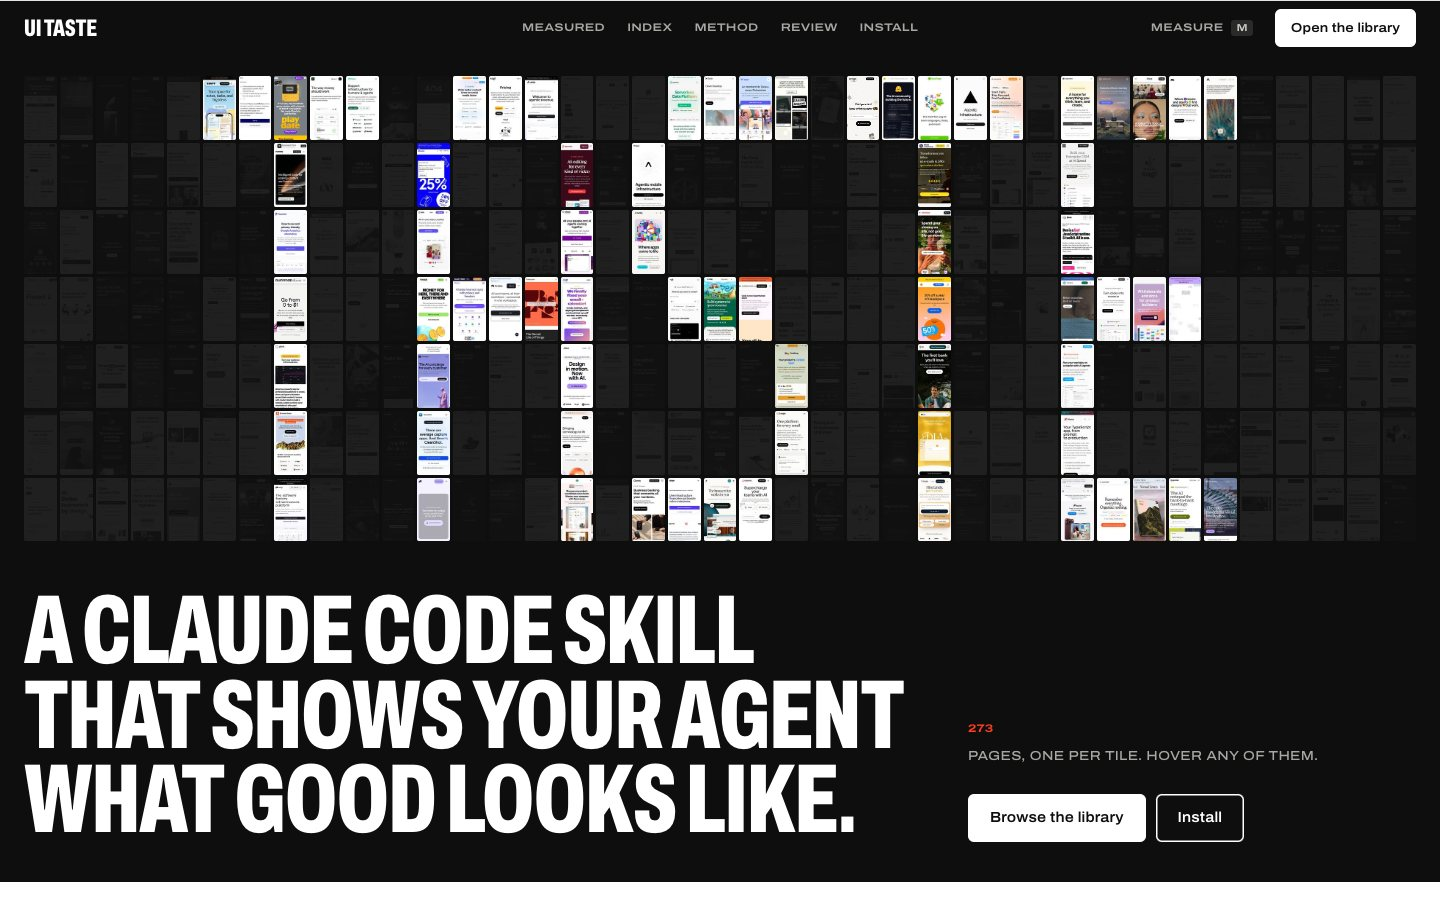
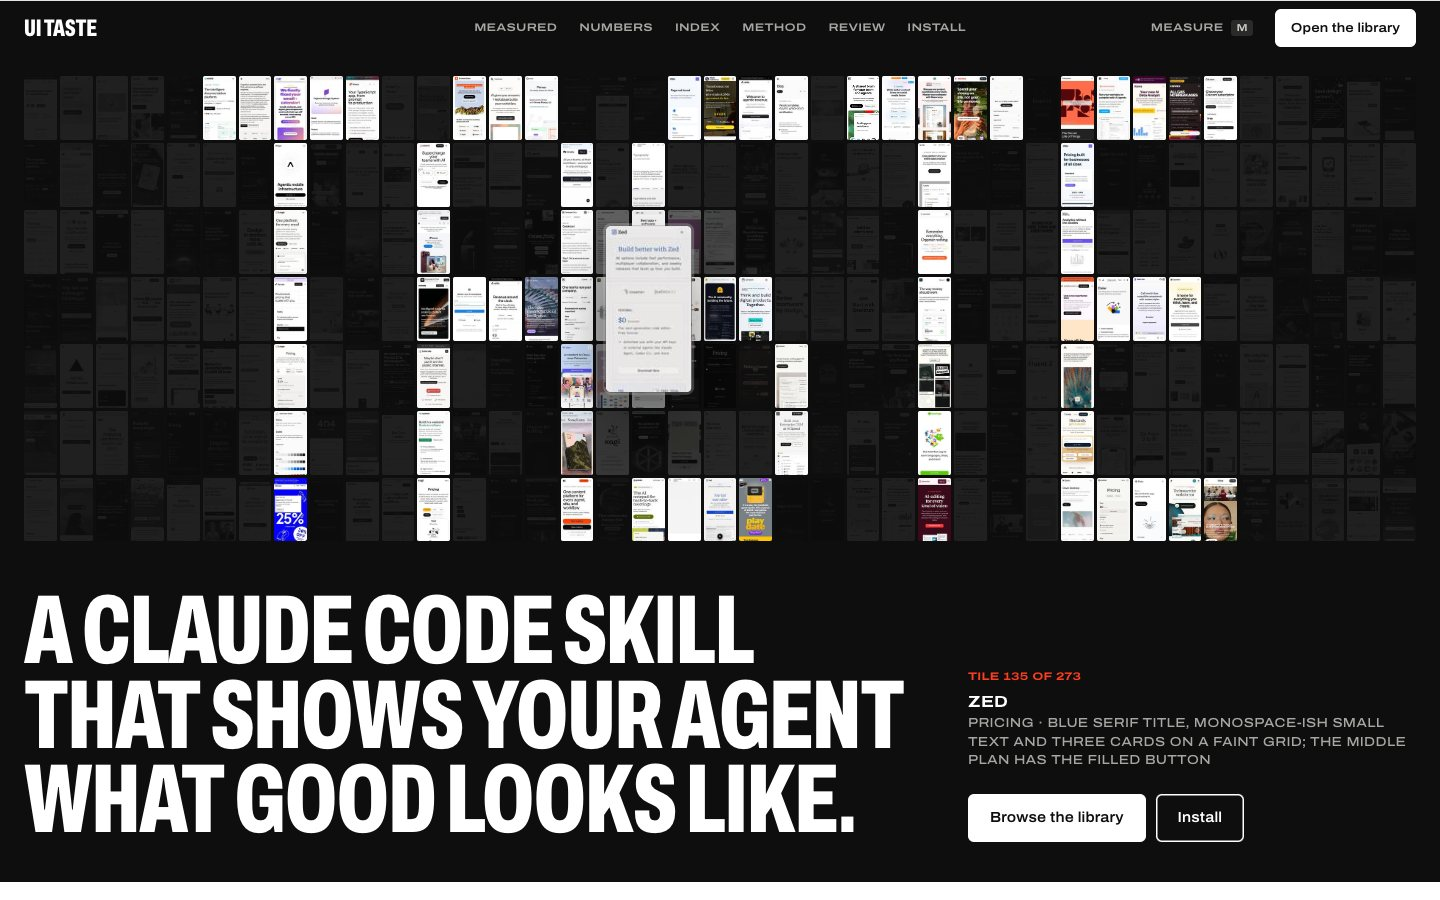
landing: torch that lights the dimmed pages around the pointer, the word shimmers as letter pages trade places with light pages outside it, mobile mosaic as TA/ST/E on 13×21 = 273, and a numbers section computed from the library (median h1 56px, most common h1 weight 400, 30% Inter, 26% one typeface

diff --git a/site/landing.js b/site/landing.js
@@ -19,45 +19,107 @@
   $("#c-shots").textContent = shots;
   $("#c-date").textContent = LIB.map((x) => x.captured).sort().pop() || "";
 
-  // ---- hero: the word TASTE spelled with every page of the library (39 × 7 = 273 cells) ----
+  // ---- hero: the word TASTE spelled with every page of the library ----
+  // desktop: 39 × 7 = 273, one line. mobile: 13 × 21 = 273, "TA / ST / E".
   const GLYPH = {
     T: ["11111", "00100", "00100", "00100", "00100", "00100", "00100"],
     A: ["01110", "10001", "10001", "11111", "10001", "10001", "10001"],
     S: ["01111", "10000", "10000", "01110", "00001", "00001", "11110"],
     E: ["11111", "10000", "10000", "11110", "10000", "10000", "11111"],
   };
-  const COLS = 39, ROWS = 7, START = 5;
-  const lit = new Set();
-  [..."TASTE"].forEach((ch, k) => GLYPH[ch].forEach((line, r) => [...line].forEach((v, c) => { if (v === "1") lit.add(r * COLS + START + k * 6 + c); })));
-  // deterministic shuffle so neighbours are varied
+  const LAYOUTS = {
+    wide: { cols: 39, rows: 7, letters: [["T", 0, 5], ["A", 0, 11], ["S", 0, 17], ["T", 0, 23], ["E", 0, 29]] },
+    tall: { cols: 13, rows: 21, letters: [["T", 0, 1], ["A", 0, 7], ["S", 7, 1], ["T", 7, 7], ["E", 14, 4]] },
+  };
   let seed = 7; const rnd = () => (seed = (seed * 16807) % 2147483647) / 2147483647;
   const shuffle = (arr) => { for (let i = arr.length - 1; i > 0; i--) { const j = Math.floor(rnd() * (i + 1)); [arr[i], arr[j]] = [arr[j], arr[i]]; } return arr; };
-  const STAR = ["stripe-press-landing", "playdate-landing", "linear-pricing", "teenage-engineering-landing", "kagi-pricing", "hey-landing", "cash-app-landing", "sentry-landing", "pika-landing", "obsidian-landing", "lindy-landing", "affinity-landing", "procreate-landing", "netlify-landing", "partiful-landing", "beehiiv-landing", "duolingo-landing", "spotify-landing", "oatly-landing", "glossier-landing", "panic-landing", "cosmos-landing", "anthropic-landing", "pentagram-landing"];
-  const starred = STAR.filter((id) => byId[id]).map((id) => byId[id]);
-  const others = shuffle(LIB.filter((x) => !STAR.includes(x.id)));
-  // letters use pages with a light background so the word reads against the dark band
   const lum = (h) => { const m = /^#([0-9a-f]{6})$/i.exec(h || ""); if (!m) return 1; const n = parseInt(m[1], 16); return ((n >> 16) * 0.299 + ((n >> 8) & 255) * 0.587 + (n & 255) * 0.114) / 255; };
   const light = (x) => lum(x.colors?.background) > 0.6 && !x.tags.includes("dark");
-  const litPool = shuffle([...starred.filter(light), ...others.filter((x) => x.type === "landing" && light(x)), ...others.filter((x) => x.type !== "landing" && light(x))].slice(0, lit.size));
-  const rest = shuffle(LIB.filter((x) => !litPool.includes(x)));
-  const cells = [];
-  for (let i = 0, a = 0, b = 0; i < COLS * ROWS; i++) cells.push(lit.has(i) ? litPool[a++] : rest[b++]);
+  const STAR = ["stripe-press-landing", "playdate-landing", "kagi-pricing", "hey-landing", "lindy-landing", "netlify-landing", "duolingo-landing", "oatly-landing", "glossier-landing", "panic-landing", "cosmos-landing", "anthropic-landing", "basecamp-landing", "tailscale-landing", "mailchimp-landing", "notion-landing"];
+  const starred = STAR.filter((id) => byId[id] && light(byId[id])).map((id) => byId[id]);
+  const lightPages = [...starred, ...shuffle(LIB.filter((x) => light(x) && !STAR.includes(x.id)))];
   const mosaic = $("#mosaic");
-  mosaic.innerHTML = cells.map((it, i) => {
-    if (!it) return `<span class="tile off"></span>`;
-    const col = i % COLS, on = lit.has(i);
-    const src = it.screens.mobile?.tile || it.screens.mobile?.thumb || it.screens.desktop?.thumb;
-    return `<a class="tile${on ? "" : " off"}" href="library.html#id=${encodeURIComponent(it.id)}" data-id="${esc(it.id)}" data-n="${i + 1}" style="--d:${Math.round(col * 14 + rnd() * 160)}ms" aria-label="${esc(it.site)}, ${esc(typeLabel(it.type).toLowerCase())}"><img src="${esc(src)}" alt="" decoding="async"></a>`;
-  }).join("");
-  requestAnimationFrame(() => requestAnimationFrame(() => mosaic.classList.add("in")));
+  const tileSrc = (it) => it.screens.mobile?.tile || it.screens.mobile?.thumb || it.screens.desktop?.thumb;
+  let cells = [], lit = new Set(), layout = null, centers = null;
+
+  function buildMosaic() {
+    const L = matchMedia("(max-width: 720px)").matches ? LAYOUTS.tall : LAYOUTS.wide;
+    if (L === layout) return;
+    layout = L; seed = 7;
+    lit = new Set();
+    L.letters.forEach(([ch, r0, c0]) => GLYPH[ch].forEach((line, r) => [...line].forEach((v, c) => { if (v === "1") lit.add((r0 + r) * L.cols + c0 + c); })));
+    const litPages = lightPages.slice(0, lit.size);
+    const rest = shuffle(LIB.filter((x) => !litPages.includes(x)));
+    const pool = shuffle(litPages.slice());
+    cells = [];
+    for (let i = 0, a = 0, b = 0; i < L.cols * L.rows; i++) cells.push(lit.has(i) ? pool[a++] : rest[b++]);
+    mosaic.style.setProperty("--cols", L.cols);
+    mosaic.classList.remove("in");
+    mosaic.innerHTML = cells.map((it, i) => {
+      const col = i % L.cols, row = Math.floor(i / L.cols), on = lit.has(i);
+      const delay = L === LAYOUTS.wide ? col * 14 + rnd() * 160 : row * 30 + rnd() * 120;
+      return `<a class="tile${on ? "" : " off"}" href="library.html#id=${encodeURIComponent(it.id)}" data-i="${i}" style="--d:${Math.round(delay)}ms" aria-label="${esc(it.site)}, ${esc(typeLabel(it.type).toLowerCase())}"><img src="${esc(tileSrc(it))}" alt="" decoding="async"></a>`;
+    }).join("");
+    requestAnimationFrame(() => requestAnimationFrame(() => mosaic.classList.add("in")));
+    centers = null;
+  }
+  buildMosaic();
+  matchMedia("(max-width: 720px)").addEventListener("change", buildMosaic);
+
+  // name of the hovered page
   const tiN = $("#ti-n"), tiText = $("#ti-text");
   const tileInfo = (a) => {
-    const it = byId[a.dataset.id]; if (!it) return;
-    tiN.textContent = `Tile ${String(a.dataset.n).padStart(3, "0")} of 273`;
+    const i = +a.dataset.i, it = cells[i]; if (!it) return;
+    tiN.textContent = `Tile ${String(i + 1).padStart(3, "0")} of ${cells.length}`;
     tiText.innerHTML = `<b>${esc(it.site)}</b>${esc(typeLabel(it.type))} · ${esc(it.note.split(/[.:]/)[0])}`;
   };
-  mosaic.addEventListener("pointerover", (e) => { const a = e.target.closest(".tile[data-id]"); if (a) tileInfo(a); });
-  mosaic.addEventListener("focusin", (e) => { const a = e.target.closest(".tile[data-id]"); if (a) tileInfo(a); });
+  mosaic.addEventListener("pointerover", (e) => { const a = e.target.closest(".tile"); if (a) tileInfo(a); });
+  mosaic.addEventListener("focusin", (e) => { const a = e.target.closest(".tile"); if (a) tileInfo(a); });
+
+  // a torch: the dimmed pages light up around the pointer
+  let px = -1e4, py = -1e4, torchRaf = 0;
+  const measureCenters = () => { centers = [...mosaic.children].map((t) => { const r = t.getBoundingClientRect(); return [t, r.left + r.width / 2, r.top + r.height / 2 + scrollY]; }); };
+  function torch() {
+    torchRaf = 0;
+    if (!centers) measureCenters();
+    const R = 150;
+    for (const [t, cx, cy] of centers) {
+      if (!t.classList.contains("off")) continue;
+      const d = Math.hypot(cx - px, cy - py);
+      t.style.setProperty("--glow", d < R ? (1 - d / R).toFixed(2) : "0");
+    }
+  }
+  if (matchMedia("(hover: hover)").matches) {
+    mosaic.addEventListener("pointermove", (e) => { px = e.clientX; py = e.clientY + scrollY; if (!torchRaf) torchRaf = requestAnimationFrame(torch); });
+    mosaic.addEventListener("pointerleave", () => { px = py = -1e4; torch(); });
+    addEventListener("resize", () => { centers = null; });
+  }
+
+  // the word shimmers: now and then a page in a letter trades places with a light page outside it
+  const still = matchMedia("(prefers-reduced-motion: reduce)").matches;
+  let hovering = false;
+  mosaic.addEventListener("pointerenter", () => { hovering = true; });
+  mosaic.addEventListener("pointerleave", () => { hovering = false; });
+  function swapOnce() {
+    if (hovering || document.hidden) return;
+    const litIdx = [...lit], offLight = cells.map((it, i) => (!lit.has(i) && light(it) ? i : -1)).filter((i) => i >= 0);
+    if (!offLight.length) return;
+    for (let k = 0; k < 3; k++) {
+      const a = litIdx[Math.floor(Math.random() * litIdx.length)], b = offLight[Math.floor(Math.random() * offLight.length)];
+      [cells[a], cells[b]] = [cells[b], cells[a]];
+      for (const i of [a, b]) {
+        const t = mosaic.children[i], it = cells[i];
+        t.classList.add("flip");
+        setTimeout(() => {
+          t.querySelector("img").src = tileSrc(it);
+          t.href = `library.html#id=${encodeURIComponent(it.id)}`;
+          t.setAttribute("aria-label", `${it.site}, ${typeLabel(it.type).toLowerCase()}`);
+          t.classList.remove("flip");
+        }, 220);
+      }
+    }
+  }
+  if (!still) setInterval(swapOnce, 1800);
 
   // ---- hero specimens: marks placed on the screenshot (percent of the 1440×1000 top), labels read from the measured tokens ----
   const SPECS = [
@@ -174,6 +236,41 @@
   });
   $("#more").addEventListener("click", () => { expanded = true; renderRows(); });
   renderRows();
+
+  // ---- numbers: computed from the measured values of every page ----
+  const med = (arr) => { const s = arr.slice().sort((x, y) => x - y); return s.length ? s[Math.floor(s.length / 2)] : 0; };
+  const pct = (n, d) => Math.round((n / d) * 100);
+  const h1s = LIB.map((x) => x.typeScale?.h1).filter((t) => t && t.size > 0);
+  const bodies = LIB.map((x) => x.typeScale?.body).filter((t) => t && t.size > 0);
+  const btns = LIB.map((x) => (x.buttons || [])[0]).filter(Boolean);
+  const radius = (b) => parseFloat(b.radius) || 0;
+  const weightCount = {}; h1s.forEach((t) => { const w = String(t.weight); weightCount[w] = (weightCount[w] || 0) + 1; });
+  const topWeight = Object.entries(weightCount).sort((x, y) => y[1] - x[1])[0];
+  const interN = LIB.filter((x) => /inter/i.test(x.fonts[0] || "")).length;
+  const oneFamily = LIB.filter((x) => x.fonts.length === 1).length;
+  const darkN = LIB.filter((x) => lum(x.colors?.background) < 0.3).length;
+  const pills = btns.filter((b) => radius(b) >= 50).length;
+  const heights = {}; btns.forEach((b) => { if (b.height) heights[b.height] = (heights[b.height] || 0) + 1; });
+  const topHeight = Object.entries(heights).sort((x, y) => y[1] - x[1])[0];
+  const bars = (vals, on) => `<div class="stat-viz" aria-hidden="true">${vals.map(([v, n]) => `<i class="${on(v) ? "on" : ""}" style="height:${Math.max(4, n)}%"></i>`).join("")}</div>`;
+  const hist = (arr, lo, hi, step) => { const out = []; for (let v = lo; v <= hi; v += step) out.push([v, arr.filter((x) => x >= v && x < v + step).length]); const mx = Math.max(...out.map((o) => o[1])); return out.map(([v, n]) => [v, (n / mx) * 100]); };
+  const h1Med = med(h1s.map((t) => t.size));
+  const STATS = [
+    { n: med(h1s.map((t) => t.size)), unit: "px", k: "Median headline size", p: `At a line height of ${med(h1s.map((t) => t.lineHeight).filter(Number.isFinite))}. Big, but tightly set.`, viz: bars(hist(h1s.map((t) => t.size), 16, 128, 8), (v) => v <= h1Med && v + 8 > h1Med) },
+    { n: topWeight[0], unit: "", k: "Most common headline weight", p: `${topWeight[1]} of ${h1s.length} headlines are regular weight. Good pages rarely shout in bold.`, red: true },
+    { n: pct(interN, LIB.length), unit: "%", k: "Set in Inter", p: "The default font is not the problem. What makes a page generated is how everything else is decided." },
+    { n: pct(oneFamily, LIB.length), unit: "%", k: "Use a single typeface", p: `${oneFamily} pages load one family and nothing else. Most of the rest use two.` },
+    { n: med(bodies.map((t) => t.size)), unit: "px", k: "Median body text", p: `At ${med(bodies.map((t) => t.lineHeight).filter(Number.isFinite))} line height. Not 18, not 14.` },
+    { n: topHeight[0], unit: "px", k: "Most common button height", p: `${topHeight[1]} pages. Median ${med(btns.map((b) => b.height).filter(Boolean))}px: small, confident buttons.`, btn: true },
+    { n: pct(pills, btns.length), unit: "%", k: "Pill buttons", p: `The rest are square-ish: ${pct(btns.filter((b) => radius(b) <= 8).length, btns.length)}% have a radius of 8px or less.` },
+    { n: pct(darkN, LIB.length), unit: "%", k: "Dark pages", p: `${LIB.length - darkN} pages are light. Dark is a choice, not a default.` },
+  ];
+  $("#stats").innerHTML = STATS.map((s) => `<div class="stat">
+      <span class="stat-n${s.red ? " red" : ""}">${esc(s.n)}<small>${s.unit}</small></span>
+      <span class="stat-k">${esc(s.k)}</span>
+      <p>${esc(s.p)}</p>
+      ${s.viz || ""}${s.btn ? `<span class="stat-btn" style="height:${esc(s.n)}px">${esc(s.n)}px button</span>` : ""}
+    </div>`).join("");
 
   // ---- review checklist (mirrors references/anti-slop.md) ----
   const CHECK = {

diff --git a/site/landing.css b/site/landing.css
@@ -69,12 +69,12 @@ h1, h2, .wordmark, .foot-mark {
 .masthead .btn-ink:hover { background: var(--red); color: #fff; }
 
 main { max-width: none; margin: 0; padding: 0; }
-.wrap, .measured, .index, .method, .review, .install { max-width: var(--wrap); margin: 0 auto; padding-left: 24px; padding-right: 24px; }
+.wrap, .measured, .numbers, .index, .method, .review, .install { max-width: var(--wrap); margin: 0 auto; padding-left: 24px; padding-right: 24px; }
 
 /* ---------- hero: the mosaic ---------- */
 .hero { background: #0e0e0e; color: #fff; padding: 20px 0 0; }
 .mosaic {
-  display: grid; grid-template-columns: repeat(39, minmax(0, 1fr)); gap: 3px; padding: 0 24px;
+  display: grid; grid-template-columns: repeat(var(--cols, 39), minmax(0, 1fr)); gap: 3px; padding: 0 24px;
 }
 .tile {
   position: relative; display: block; aspect-ratio: 260 / 507; overflow: hidden; border-radius: 2px; background: #1b1b1a;
@@ -85,8 +85,9 @@ main { max-width: none; margin: 0; padding: 0; }
 .tile img { width: 100%; height: 100%; object-fit: cover; object-position: top; }
 .mosaic.in .tile { opacity: 1; transform: none; }
 .tile.off { filter: grayscale(1) brightness(0.5) contrast(0.8); }
-.mosaic.in .tile.off { opacity: 0.16; }
-.mosaic:hover .tile.off { opacity: 0.24; }
+.mosaic.in .tile.off { opacity: calc(0.16 + var(--glow, 0) * 0.84); filter: grayscale(calc(1 - var(--glow, 0))) brightness(calc(0.5 + var(--glow, 0) * 0.5)); transition: opacity 420ms var(--ease), transform 420ms var(--ease), filter 200ms linear; }
+.tile img { transition: transform 220ms var(--ease), opacity 220ms var(--ease); }
+.tile.flip img { transform: scaleX(0); opacity: 0.4; }
 .tile:hover, .tile:focus-visible {
   z-index: 3; filter: none; opacity: 1 !important; transform: scale(2.6) !important; transition-delay: 0ms;
   box-shadow: 0 10px 30px -6px rgb(0 0 0 / 0.8), 0 0 0 1px rgb(255 255 255 / 0.25); outline: none;
@@ -112,7 +113,7 @@ main { max-width: none; margin: 0; padding: 0; }
 section { padding-top: 120px; }
 .measured-body { display: grid; grid-template-columns: minmax(0, 5fr) minmax(0, 7fr); gap: 56px; align-items: start; }
 .measured h2, .head h2 {
-  margin: 0; font-size: clamp(48px, 5.6vw, 88px); line-height: 0.86;
+  margin: 0; text-wrap: balance; font-size: clamp(48px, 5.6vw, 88px); line-height: 0.86;
 }
 .lede { margin: 28px 0 0; font-size: 18px; line-height: 1.55; color: var(--ink-2); max-width: 44ch; }
 
@@ -151,6 +152,21 @@ section { padding-top: 120px; }
 .switch button:hover img { transform: translateY(-2px); }
 .switch button[aria-selected="true"] { color: var(--ink); }
 .switch button[aria-selected="true"] img { box-shadow: 0 0 0 2px var(--ink); }
+
+/* ---------- numbers ---------- */
+.stats { display: grid; grid-template-columns: repeat(4, minmax(0, 1fr)); gap: 0; border-top: 1px solid var(--line); }
+.stat { padding: 28px 24px 32px 0; border-bottom: 1px solid var(--line); display: grid; align-content: start; gap: 10px; }
+.stat + .stat { padding-left: 24px; border-left: 1px solid var(--line); }
+.stat:nth-child(4n + 1) { padding-left: 0; border-left: 0; }
+.stat-n { font-size: clamp(72px, 8vw, 128px); line-height: 0.82; font-weight: 800; font-stretch: 62%; letter-spacing: -0.02em; font-variant-numeric: tabular-nums; }
+.stat-n small { font-size: 0.38em; margin-left: 4px; letter-spacing: 0; }
+.stat-n.red { color: var(--red); }
+.stat-k { font-size: 10.5px; font-weight: 700; font-stretch: 125%; text-transform: uppercase; letter-spacing: 0.03em; }
+.stat p { margin: 0; font-size: 14px; color: var(--ink-2); max-width: 32ch; }
+.stat-viz { height: 40px; display: flex; align-items: end; gap: 3px; margin-top: 4px; }
+.stat-viz i { flex: 1; background: var(--tint-2); min-height: 2px; }
+.stat-viz i.on { background: var(--ink); }
+.stat-btn { display: inline-flex; align-items: center; height: 36px; padding: 0 14px; border-radius: 6px; background: var(--ink); color: #fff; font-size: 13px; font-weight: 600; justify-self: start; margin-top: 4px; }
 
 /* ---------- section heads ---------- */
 .head { display: grid; grid-template-columns: minmax(0, 5fr) minmax(0, 7fr); gap: 56px; align-items: end; margin-bottom: 40px; padding-bottom: 20px; border-bottom: 3px solid var(--ink); }
@@ -238,6 +254,9 @@ section { padding-top: 120px; }
 @media (max-width: 1080px) {
   .hero-foot, .measured-body, .head, .install-card, .foot { grid-template-columns: 1fr; gap: 28px; }
   .steps { grid-template-columns: repeat(2, minmax(0, 1fr)); }
+  .stats { grid-template-columns: repeat(2, minmax(0, 1fr)); }
+  .stat:nth-child(4n + 1) { padding-left: 24px; border-left: 1px solid var(--line); }
+  .stat:nth-child(2n + 1) { padding-left: 0; border-left: 0; }
   .checks { grid-template-columns: repeat(2, minmax(0, 1fr)); }
   .row a { grid-template-columns: 120px minmax(0, 1fr) auto; }
   .r-n, .r-h1 { display: none; }
@@ -249,7 +268,13 @@ section { padding-top: 120px; }
   .nav, .measure-toggle { display: none; }
   .measured, .index, .method, .review, .install { padding-left: 16px; padding-right: 16px; }
   .hero { padding-top: 12px; }
-  .mosaic { gap: 1px; padding: 0 8px; }
+  .mosaic { gap: 2px; padding: 0 16px; }
+  .tile { aspect-ratio: 1 / 1.08; }
+  .switch button { white-space: nowrap; }
+  .numbers { padding-left: 16px; padding-right: 16px; }
+  .stat-n { font-size: 64px; }
+  .stat, .stat + .stat { padding: 20px 12px 22px 0; }
+  .stat:nth-child(2n) { padding-left: 12px; }
   .tile { border-radius: 1px; }
   .hero-foot { padding: 32px 16px 32px; }
   .tile-info { min-height: 0; }

diff --git a/site/index.html b/site/index.html
@@ -20,6 +20,7 @@
     <a class="wordmark" href="index.html">UI taste</a>
     <nav class="nav" aria-label="Sections">
       <a href="#measured">Measured</a>
+      <a href="#numbers">Numbers</a>
       <a href="#index">Index</a>
       <a href="#method">Method</a>
       <a href="#review">Review</a>
@@ -68,6 +69,14 @@
         <div class="switch" id="switch" role="tablist" aria-label="Specimens"></div>
       </div>
     </div>
+  </section>
+
+  <section class="numbers" id="numbers">
+    <header class="head">
+      <h2>What 273 good pages have in common</h2>
+      <p class="head-lede">Computed from the values measured on every page of the library. They are what the skill steers Claude toward, and a few of them are not what you would guess.</p>
+    </header>
+    <div class="stats" id="stats"></div>
   </section>
 
   <section class="index" id="index">
